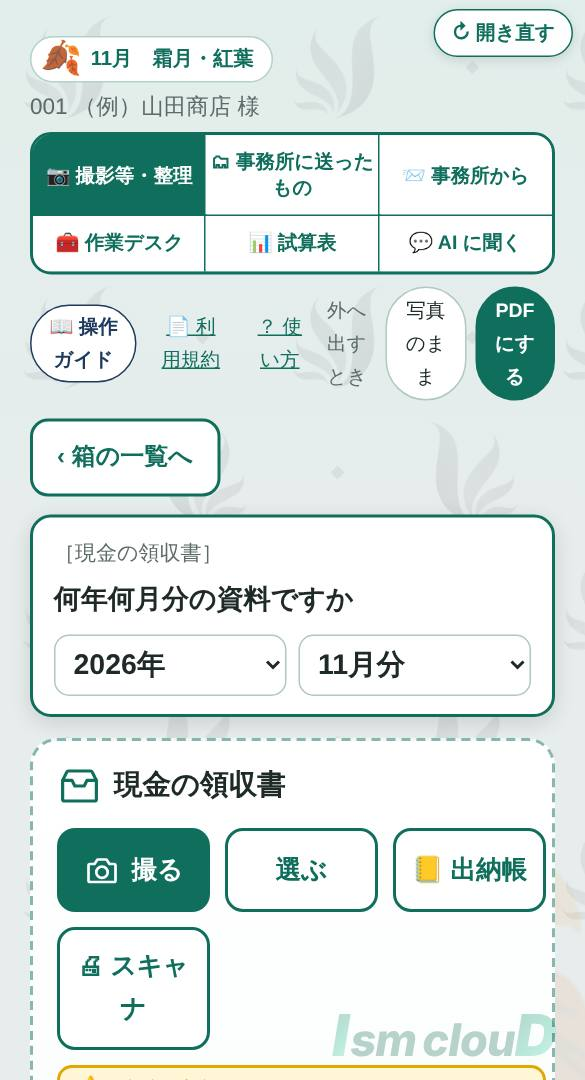
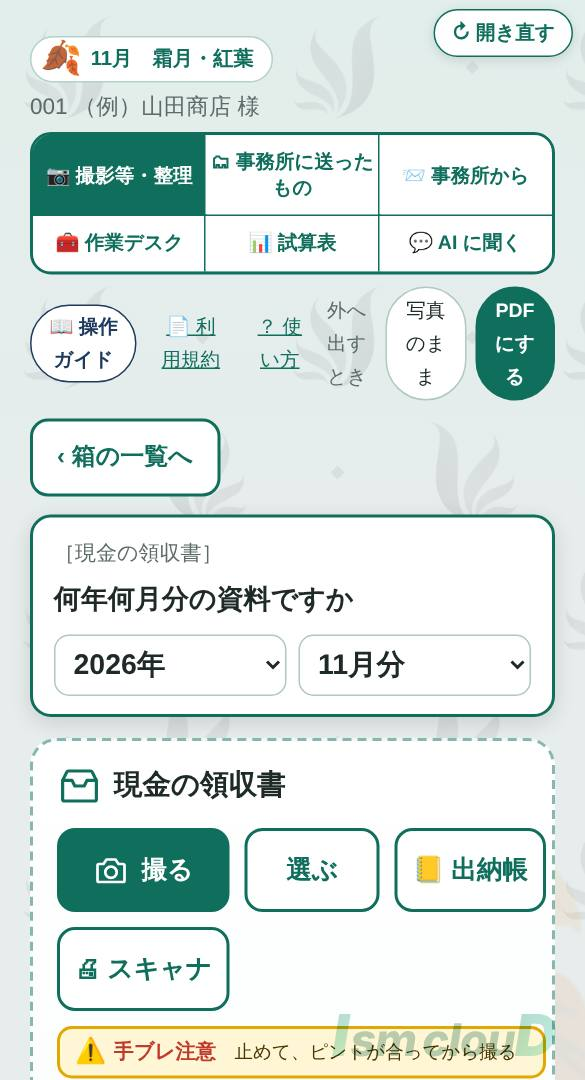
collect: 画面を更新（777a387）

Changed region(s): [[0.0923, 0.7639, 0.9538, 1.0], [0.6154, 0.7639, 0.8923, 0.8556], [0.4615, 0.7944, 0.5846, 0.825]]

diff --git a/collect/index.html b/collect/index.html
@@ -27,7 +27,7 @@
 <meta name="apple-mobile-web-app-title" content="資料提出">
 <meta name="mobile-web-app-capable" content="yes">
 <meta name="theme-color" content="#0F6E5C">
-<script>window.__PAGE_VER=1795509761;</script>
+<script>window.__PAGE_VER=1795511095;</script>
 <style>
[1 lines of base64/hex data omitted]
     --bg: #F3F6F5;
@@ -720,6 +720,7 @@
   .ti .join { position: absolute; left: 4px; bottom: 4px; font: inherit; font-size: 11.5px; font-weight: 800; border: 0; border-radius: 6px; padding: 4px 6px; background: rgba(255,255,255,.92); color: var(--accent); box-shadow: 0 1px 2px rgba(0,0,0,.3); cursor: pointer; }
   .ti .join[aria-pressed="true"] { background: var(--accent); color: #fff; }
   .ti.joined { outline: 3px solid var(--accent); outline-offset: 1px; }
+  .ti .tpg { position: absolute; left: 4px; bottom: 4px; background: #B3261E; color: #fff; font-size: 11px; font-weight: 800; border-radius: 4px; padding: 1px 6px; pointer-events: none; }   /* ★ K-0308：送る前の PDF は ページ数 */
   .ti .setn { position: absolute; left: 4px; top: 4px; font-size: 11px; font-weight: 800; padding: 1px 6px; border-radius: 4px; background: var(--accent); color: #fff; }
   /* ★★ 保管中（事務所に未送信）2026-10-15 */
   .send.hold { background: #fff; color: #8A5A00; border: 2px solid #D9A441; min-height: 52px; font-size: 17px; margin-top: 10px; }
@@ -2344,6 +2345,7 @@
           const d = mk('div', 'ti' + (sets[gi] ? ' joined' : '') + (TSEL[it.id] ? ' tsel' : '')); d.dataset.id = String(it.id);
           if (it.url) { const img = mk('img'); img.alt = it.file.name || '写真'; img.src = it.url; d.appendChild(img); }
           else d.appendChild(fileIcon(it.file.name) || mk('div', 'kind', (isPdf(it.file) ? 'PDF\n' : '') + (it.file.name || '')));
+          if (isPdf(it.file)) { d.appendChild(mk('span', 'tpg', 'PDF' + (it.pn ? ' ' + it.pn + 'ページ' : ''))); trayPeek(it); }
           const x = mk('button', 'del', '×'); x.type = 'button';
           x.setAttribute('aria-label', (it.file.name || '写真') + 'を消す');
           x.addEventListener('click', function () { removeItem(it.id); });
@@ -2357,6 +2359,20 @@
     });
   }
 
+  /* ★★ K-0308（2026-11-24 林）：送る前の確認の 札を 押すと 大きく見る。PDF は 何ページあっても ぜんぶ（‹ › ・PageUp／PageDown・スワイプ でページ）。
+       PDF の札には「PDF 5ページ」を出す（束ねた PDF も まるごと 送ることが ひと目で わかるように）。数は PDF の中身の字から 数える（PDF を開く道具は 押したときだけ 読み込む。端末の中だけ・送らない） */
+  function trayPeek(it) {
+    if (it.peek) return; it.peek = 1;
+    it.file.arrayBuffer().then(function (b) {
+      const n = pdfCount(b); if (!(n >= 1)) return; it.pn = n;
+      const d = document.querySelector('#trayBody .ti[data-id="' + it.id + '"]'), tg = d && d.querySelector(':scope > .tpg'); if (tg) tg.textContent = 'PDF ' + n + 'ページ';
+    }, function () {});
+  }
+  function trayZoom(it) {
+    const f = it.file, cap = (f.name || '写真') + '（送る前）';
+    if (isPdf(f)) { const zk = 'tray:' + it.id; ZLOC[zk] = function () { return f.arrayBuffer().then(bytesB64); }; zoomOpen('', zk, cap); return; }
+    if (it.url) zoomOpen(it.url, '', cap);
+  }
   /* ★ 送る前のものを PDF にする・印刷する（2026-10-13／10-23）。端末の中のものだけで作る（送らない） */
   function trayList(items) { return items.map(function (it) { return { k: 'tray' + it.id, it: it }; }); }
   function trayFiles(list) {
@@ -2385,6 +2401,7 @@
   $('trayWs').addEventListener('click', function () { if (!wsOpen('c:tray', wsTrayAd())) showDone('別の窓を開けませんでした。ブラウザの「ポップアップをブロック」を このページだけ許可してください。', true); });
   $('trayPickEnd').addEventListener('click', function () { TPICK = false; TSEL = {}; drawTray(); });
   $('trayBody').addEventListener('click', function (e) {
+    if (!TPICK && !e.target.closest('button') && !TDD.justEnded()) { const d0 = e.target.closest('.ti[data-id]'), it0 = d0 && tray.find(function (x) { return String(x.id) === d0.dataset.id; }); if (it0) trayZoom(it0); return; }
     if (!TPICK || e.target.closest('button')) return;
     const d = e.target.closest('.ti'); if (!d) return;
     e.preventDefault(); e.stopPropagation();
@@ -2544,7 +2561,8 @@
           if (r && r.scan && r.scan !== 'スキャナ保存') paperN++;
           /* 届いたものは その箱の その月分の 後ろ（撮った順）に「送信済み」で出す */
           const k = (r && r.k) || ('local_' + it.id);
-          if (r && r.k) locbFromSent(r.k, it.mime, it.bytes);   /* ★ 速さ：送った中身を覚えておく（PDF・外へ・書きこむ で 取りに行かない） */
+          if (r && r.k) locbFromSent(r.k, it.mime, it.bytes);
+          if (r && r.k && it.mime === 'application/pdf' && it.bytes && !(PDFN[r.k] >= 1)) pdfnPut(r.k, pdfCount(it.bytes));   /* ★ K-0308：送った PDF の ページ数（PDF を開く道具は 読み込まない） */   /* ★ 速さ：送った中身を覚えておく（PDF・外へ・書きこむ で 取りに行かない） */
           if (!HIST.some(function (h) { return h.k === k; })) {
             HIST.unshift({ k: k, at: (r && r.at) || '', box: (r && r.box) || it.box, period: (r && r.period) || per, name: it.name, pdf: it.mime === 'application/pdf',
                            status: 'received', note: '', redo: false, fresh: true, scan: (r && r.scan) || '', set: it.setv ? it.setv.set + '#' + it.setv.setN + '/' + it.setv.setOf : '', hold: !!it.hold, day: it.day || '' });
@@ -2909,7 +2927,27 @@
     st.addEventListener('click', function () { STACKOPEN[sid] = 1; drawAll(); });
     w.appendChild(st);
   }
-  function tileBase(src, name, pdf) {
+  /* ★★ K-0308（2026-11-24 林）：PDF の札に ページ数（「PDF 5ページ」）。表紙の絵だけだと 1枚しか 送れていないように 見えたため。
+       ページ数は 中身を 描いたとき（小さい絵・大きく見る・送り終えたとき）に 分かったものだけ。この端末に 覚える（数だけ。中身は 覚えない） */
+  const PDFN = (function () { try { return JSON.parse(lsGet('collect_pdfn') || '{}') || {}; } catch (e) { return {}; } })();
+  function pdfnTag(k) { return 'PDF' + (k && PDFN[k] > 1 ? ' ' + PDFN[k] + 'ページ' : ''); }
+  function pdfnPut(k, n) {
+    if (!k || /^local_/.test(k) || !(n >= 1) || PDFN[k] === n) return;
+    PDFN[k] = n; const ks = Object.keys(PDFN); if (ks.length > 800) ks.slice(0, ks.length - 800).forEach(function (x) { delete PDFN[x]; });
+    try { lsSet('collect_pdfn', JSON.stringify(PDFN)); } catch (e) {}
+    document.querySelectorAll('.ht[data-k="' + (window.CSS && CSS.escape ? CSS.escape(k) : k) + '"] > .hpdf-tag').forEach(function (t) { t.textContent = pdfnTag(k); });
+  }
+  /* PDF の ページ数を 中身の文字から 数える（いちばん大きい「/Type /Pages … /Count N」）。数えられなければ 0 */
+  function pdfCount(bytes) {
+    try {
+      const u = bytes instanceof Uint8Array ? bytes : new Uint8Array(bytes); let s = '';
+      for (let i = 0; i < u.length; i += 0x8000) s += String.fromCharCode.apply(null, u.subarray(i, i + 0x8000));
+      let n = 0; const re = /\/Type\s*\/Pages\b[^>]*?\/Count\s+(\d+)|\/Count\s+(\d+)[^>]*?\/Type\s*\/Pages\b/g; let m;
+      while ((m = re.exec(s))) n = Math.max(n, Number(m[1] || m[2]));
+      return n;
+    } catch (e) { return 0; }
+  }
+  function tileBase(src, name, pdf, k) {
     const d = mk('div', 'ht');
     const fi = fileIcon(name);
     if (fi) { d.appendChild(fi); d.classList.add('file'); return d; }
@@ -2917,7 +2955,7 @@
     if (src) { const img = mk('img'); img.alt = name || '写真'; img.src = src; img.loading = 'lazy'; d.appendChild(img); }
     else if (pdf && src === null) d.appendChild(mk('div', 'kind', 'PDF\n' + (name || '')));
     else { d.classList.add('wait'); if (pdf) d.appendChild(mk('div', 'kind', 'PDF\n' + (name || ''))); }
-    if (pdf) d.appendChild(mk('span', 'hpdf-tag', 'PDF'));
+    if (pdf) d.appendChild(mk('span', 'hpdf-tag', pdfnTag(k)));
     return d;
   }
   function outTile(it) {
@@ -2925,7 +2963,12 @@
     d.classList.add('sending');
     const t = it.st === 'send' ? (it.hold ? '保管しています…' : '送信中…') : it.st === 'prep' ? '準備中…' : it.st === 'ng' ? '送れません' : it.tries ? '電波待ち（自動で再送）' : '送信待ち';
     d.appendChild(mk('div', 'hst ' + (it.st === 'ng' ? 'back' : 'wait'), t));
-    d.addEventListener('click', function (e) { if (e.target.closest('.hx')) return; zoomOpen(it.url || it.thumb, '', it.name + '（' + t + '）'); });
+    d.addEventListener('click', function (e) {
+      if (e.target.closest('.hx')) return;
+      /* ★ K-0308：送っている途中・保管している途中の PDF も 中身を ぜんぶ（この端末にある PDF から） */
+      if (/pdf/.test(it.mime || '') && it.bytes) { const zk = 'out:' + it.id; ZLOC[zk] = function () { return bytesB64(it.bytes); }; zoomOpen(it.thumb || '', zk, it.name + '（' + t + '）'); return; }
+      zoomOpen(it.url || it.thumb, '', it.name + '（' + t + '）');
+    });
     if (it.st !== 'send') {
       const x = mk('button', 'hx', '×'); x.type = 'button'; x.setAttribute('aria-label', '送るのをやめる');
       x.addEventListener('click', function () { if (it.st === 'ng') { dropOut(it); return; } askYes('この1枚を送るのをやめますか？', '', 'やめる').then(function (y) { if (y) dropOut(it); }); });
@@ -2934,7 +2977,7 @@
     return d;
   }
   function histTile(h) {
-    const d = tileBase(TH[h.k], h.name, h.pdf);
+    const d = tileBase(TH[h.k], h.name, h.pdf, h.k);
     d.dataset.k = h.k;
     if (TH[h.k] === null && !h.pdf && !fileKind(h.name)) { d.classList.remove('wait'); d.appendChild(mk('div', 'kind', h.name)); }
     const s = stOf(h);
@@ -3156,8 +3199,8 @@
     if (img.draggable) hOutPrep(h);
     zRevDraw(); zChrome(h);
     v.hidden = false; document.body.classList.add('noscroll');
-    $('zoomLoad').hidden = !!full || !k || /^local_/.test(k) || (k in FULL);
-    if (!full && k && !(k in FULL)) fullWant(k, true);
+    $('zoomLoad').hidden = ZLOC[k] ? !!h : (!!full || !k || /^local_/.test(k) || (k in FULL));
+    if (!full && k && !(k in FULL) && !ZLOC[k]) fullWant(k, true);
     zPdfStart(h);
   }
   /* ================= ★ K-0093：PDF は くっきり（2026-11-10） =================
@@ -3209,25 +3252,32 @@
   }
   const ZPG = { k: '', i: 1, n: 0 };
   function zIsPdf(h) { return !!(h && h.k && !/^local_/.test(h.k) && (h.pdf || /\.pdf$/i.test(h.name || ''))); }
+  /* ★★ K-0308（2026-11-24 林）：送る前（送る前の確認）・送っている途中 の PDF も、何ページあっても 中身を ぜんぶ 見られるように。
+       前は まだ 事務所に 届いていない PDF は 中身を 取りに行けず、大きく見ても 1ページ目（表紙）しか 出なかった（送るのは もともと PDF まるごと）。
+       ZLOC … 大きく見る 鍵 → この端末にある PDF の 中身（base64）を 返す関数。閉じたら 外す */
+  const ZLOC = {};
+  function zMine() { return ZPG.n > 1 && (ZH ? ZH.k === ZPG.k : !!ZK && ZK === ZPG.k); }
   function zPdfStart(h) {
     ZPG.k = ''; ZPG.i = 1; ZPG.n = 0; ZPG.sharp = false;
-    if (!zIsPdf(h)) return;
-    const k = h.k; ZPG.k = k;
+    const loc = !h && ZK && ZLOC[ZK] ? ZLOC[ZK] : null;
+    if (!loc && !zIsPdf(h)) return;
+    const k = loc ? ZK : h.k; ZPG.k = k;
     const go = function (d) { if (ZPG.k !== k || $('zoomv').hidden) return; ZPG.n = d.n; zPdfShow(k, 1); };
     if (ZDOC[k]) { if (ZDOC[k].doc) go(ZDOC[k]); return; }
     ZDOC[k] = { doc: null, n: 0, pg: {} }; ZDOCK.push(k);
     while (ZDOCK.length > 3) { const o = ZDOCK.shift(); try { if (ZDOC[o] && ZDOC[o].doc && ZDOC[o].doc.destroy) ZDOC[o].doc.destroy(); } catch (e) {} delete ZDOC[o]; }
-    call('clientFiles', [TOKEN, [k]], 120000).then(function (r) {
-      const v = r && r[k]; if (!v || v.t !== 'pdf' || !v.b64) throw new Error('no pdf');
-      return pdfjs().then(function (lib) { return lib.getDocument(Object.assign({ data: b64bytes(v.b64) }, PDF_OPT)).promise; });
-    }).then(function (doc) { const d = ZDOC[k]; if (!d) { try { doc.destroy(); } catch (e) {} return; } d.doc = doc; d.n = doc.numPages; go(d); },
-      function () { delete ZDOC[k]; const i = ZDOCK.indexOf(k); if (i >= 0) ZDOCK.splice(i, 1); });   /* 描けないときは 今までの絵のまま */
+    (loc ? Promise.resolve().then(loc) : call('clientFiles', [TOKEN, [k]], 120000).then(function (r) { const v = r && r[k]; return v && v.t === 'pdf' ? v.b64 : ''; })).then(function (b64) {
+      if (!b64) throw new Error('no pdf');
+      return pdfjs().then(function (lib) { return lib.getDocument(Object.assign({ data: b64bytes(b64) }, PDF_OPT)).promise; });
+    }).then(function (doc) { const d = ZDOC[k]; if (!d) { try { doc.destroy(); } catch (e) {} return; } d.doc = doc; d.n = doc.numPages; if (!loc) pdfnPut(k, d.n); go(d); if (loc && d.n < 2) $('zoomLoad').hidden = true; },
+      function () { delete ZDOC[k]; const i = ZDOCK.indexOf(k); if (i >= 0) ZDOCK.splice(i, 1); if (loc && ZPG.k === k) $('zoomLoad').hidden = true; });   /* 描けないときは 今までの絵のまま */
   }
   function zPdfPaint() {
-    const multi = ZPG.n > 1 && ZH && ZH.k === ZPG.k;
+    const multi = zMine();
     if (multi) { $('zoomPg').hidden = false; $('zoomPg').textContent = 'PDF ' + ZPG.i + ' / ' + ZPG.n + 'ページ'; }
     { const sp = $('zoomPdfSplit'); const can = multi && ZH && ZH.status !== 'done' && !MODE; sp.hidden = !can; if (can && sp.dataset.k !== ZH.k) { sp.dataset.k = ZH.k; sp.dataset.ok = ''; sp.disabled = false; sp.textContent = '✂ 1ページずつに分ける'; } }
     if (ZH) { $('zoomPrev').hidden = !(multi && ZPG.i > 1) && !zPageTo(ZH, -1); $('zoomNext').hidden = !(multi && ZPG.i < ZPG.n) && !zPageTo(ZH, 1); }
+    else if (ZLOC[ZPG.k]) { $('zoomPrev').hidden = !(multi && ZPG.i > 1); $('zoomNext').hidden = !(multi && ZPG.i < ZPG.n); }
   }
   function zPdfShow(k, i) {
     const d = ZDOC[k]; if (!d || !d.doc) return;
@@ -3244,7 +3294,7 @@
   }
   /* PDF の中のページ送り。最後（最初）のページで もう一度押すと 次（前）の書類へ */
   function zPdfStep(dir) {
-    if (!(ZPG.n > 1 && ZH && ZH.k === ZPG.k)) return false;
+    if (!zMine()) return false;
     const n = ZPG.i + dir; if (n < 1 || n > ZPG.n) return false;
     ZP.reset(); zPdfShow(ZPG.k, n); return true;
   }
@@ -3377,6 +3427,12 @@
   });
   $('zoomFoot').addEventListener('click', function (e) { e.stopPropagation(); });   /* ★ 帯の すきまを押しても 閉じない */
   $('zoomChk').addEventListener('click', function () { if (ZH) cchkSet(ZH, !ZH.cchk); });
+  /* ★ K-0308：送る前・送っている途中の PDF は ← → ・PageUp／PageDown で ページ（箱の中の 前後は 無い） */
+  document.addEventListener('keydown', function (e) {
+    if ($('zoomv').hidden || ZH || !ZLOC[ZPG.k] || e.ctrlKey || e.metaKey || e.altKey) return;
+    const d = e.key === 'PageDown' || e.key === 'ArrowRight' || e.key === 'ArrowDown' ? 1 : e.key === 'PageUp' || e.key === 'ArrowLeft' || e.key === 'ArrowUp' ? -1 : 0;
+    if (d) { e.preventDefault(); zPdfStep(d); }
+  });
   let Z_ZERO = 0;
   document.addEventListener('keydown', function (e) {
     if ($('zoomv').hidden || !ZH || $('zoomRev').hidden || e.ctrlKey || e.metaKey || e.altKey) return;
@@ -3945,7 +4001,7 @@
       showDone('書きこみました（この PDF が 書きこんだものに 変わりました）。'); pulseSig = '';
     } catch (e) { WV.busy = false; $('wvOk').disabled = false; WV.noBg = false; WV.marks = WVP.pm[cur] || []; try { wvPdfPage(cur); } catch (x) {} wvMsg('保存できませんでした。' + (e && e.message ? e.message : e), true); }
   }
-  function zoomClose() { $('zoomv').hidden = true; ZK = ''; $('zoomImg').removeAttribute('src'); if ($('backv').hidden && $('movev').hidden && $('signv').hidden) document.body.classList.remove('noscroll'); }
+  function zoomClose() { $('zoomv').hidden = true; ZK = ''; Object.keys(ZLOC).forEach(function (x) { delete ZLOC[x]; }); $('zoomImg').removeAttribute('src'); if ($('backv').hidden && $('movev').hidden && $('signv').hidden) document.body.classList.remove('noscroll'); }
   $('zoomv').addEventListener('click', zoomClose);
 
   /* ---- つかんで移す（箱の整理）----
@@ -5643,7 +5699,7 @@
   const GUIDE = {
     order: ['send', 'box', 'cam', 'hist', 'recv', 'desk', 'tb', 'ai', 'link', 'book'],
     send: { t: '📷 撮影等・整理', pic: 'g_send', lead: '書類を 箱ごとに 撮る・入れる・整理する 画面です。入れたものは まず その箱に保管され、事務所には［事務所に送る］を押したときに 届きます。',
-      steps: ['上の「年」「月分」で 何年何月分の書類かを選ぶ', '入れたい箱の名前を押して 開く', '［撮る］で撮影、または［選ぶ］で 写真・PDF を選ぶ（パソコンは 箱へ ドラッグ＆ドロップでも入ります。フォルダごと落とすと 中のファイルが全部入ります）', '箱の中で 送るものを選んで［事務所に送る］'],
+      steps: ['上の「年」「月分」で 何年何月分の書類かを選ぶ', '入れたい箱の名前を押して 開く', '［撮る］で撮影、または［選ぶ］で 写真・PDF を選ぶ（パソコンは 箱へ ドラッグ＆ドロップでも入ります。フォルダごと落とすと 中のファイルが全部入ります）', '何枚も 束ねた PDF は、札に「PDF 5ページ」と出ます。押すと 大きく見えて、‹ › で ぜんぶの ページを 見られます（PDF は まるごと 送ります）', '箱の中で 送るものを選んで［事務所に送る］'],
       tips: ['「🧾 確定申告の 書類」が 出ているとき（事務所が 始めたとき）… 押すと 質問が 1つずつ 出ます。「はい」「いいえ」「わからない」で 答え、「はい」の 書類だけ 撮るか 選んで 出します。迷ったら「わからない」で 大丈夫です（事務所から ご連絡します）。手元に 無い 書類は「あとで 出す」。途中で やめても 続きから 始まります。マイナンバーの 載っている ところは 隠して 撮ってください', 'パソコンでは 上の 切り替えを 右クリック →［新しいタブで開く］［別ウィンドウで開く］で 画面を 並べて 使えます', '送る前でも［⬇ PDFで保存］［🖨 印刷］ができます（送ったことには なりません）。📎 まとめた書類は 1つのPDF、ほかは 1枚ずつのPDF（2つ以上なら ZIP 1つ）', '［送らずに保管する］で残したものは この会社の ほかの端末（パソコンなど）にも すぐ出ます。事務所には見えません。あとで選んで［事務所に送る］を押せば届きます', '1ファイルの大きさには 上限があります（画面のいちばん下）', '送り間違えたときは 箱の中で消すか、担当スタッフにお知らせください', 'マイナンバーが写っているものは「年末調整書類（マイナンバー記載あり）」の箱へ。ほかの箱なら 上のチェックを入れてから撮ります', '「📊 経営助言」の帯は 事務所からの 助言と、事務所が算定した もしものときに 要るお金（標準保障額）と 銀行から見た 格付けです。押すと 理由と 推移が出ます。どうしたら よいかは［どうしたら よいか 石井事務所に 相談する］で 聞けます', '事務所から「議事録の ご確認のお願い」の黄色い帯が出たら、押して 内容を読み、お名前を入れて［内容を確認しました］を 押します', '事務所から「◯月分の ◯◯ を お送りください」の黄色い帯が出たら、押すと その月分・その箱が開きます', '撮ったら そのまま閉じても大丈夫です（届くまで 端末が続けます）'] },
     box: { t: '📦 箱の中', pic: 'g_box', lead: '箱を開くと、その箱に入っている書類が 月分ごとに並びます。',
       steps: ['写真を押すと［🔍 大きく見る］。指（マウス）で 拡大・移動できます', '何枚かを 1つの書類にするときは 選んで［📎 まとめる］', 'まちがえた箱・月分は［↪ 別の箱へ移す］［別の月分へ移す］', 'スキャナで 何枚も 1つの PDF に なったときは、大きく見るで［✂ 1ページずつに分ける］（1ページ ＝ 1つの 資料に。送る前でも 送ったあとでも）', 'ScanSnap などの スキャナは 箱の［🖨 スキャナ］で 保存先の フォルダを 1回 選ぶと、スキャンした ファイルが その箱に ひとりでに 入ります（まだ 送りません。パソコンの Chrome・Edge）', '［未送信 N件を 事務所に送る］は「保管しています…」の 途中のものも 数えます。押せば 保管が 済みしだい 届きます（待たなくて よい）', '文字・下線・枠を書きこむときは［✏ 文字を書きこむ］', '［⬇ PDFで保存］［🖨 印刷］で 手もとに残す（大きく見ているときは［⬇ 保存］で その1つを パソコン・スマホに保存。別ウィンドウの 大きく見る にも あります）', '送るものを選んで［事務所に送る］'],
@@ -7066,7 +7122,7 @@
     if (!list.length) { ul.appendChild(mk('li', 'empty', '撮り直しのお願いは もうありません。ありがとうございました。')); return; }
     list.forEach(function (h) {
       const li = mk('li', 'bl');
-      const t = tileBase(TH[h.k], h.name, h.pdf); t.dataset.k = h.k; li.appendChild(t);
+      const t = tileBase(TH[h.k], h.name, h.pdf, h.k); t.dataset.k = h.k; li.appendChild(t);
       const r = mk('div', 'bl-r');
       r.appendChild(mk('div', 'bl-w', ymLabel(h.period) + '［' + h.box + '］'));
       r.appendChild(mk('div', 'bl-n', '事務所から：' + (h.note || '撮り直してください')));
@@ -7102,7 +7158,7 @@
         c.appendChild(mk('div', 'bkx-l', label));
         const g = mk('div', 'bkx-g');
         list.forEach(function (h) {
-          const t = tileBase(TH[h.k], h.name, h.pdf); t.dataset.k = h.k;
+          const t = tileBase(TH[h.k], h.name, h.pdf, h.k); t.dataset.k = h.k;
           t.addEventListener('click', function () { zoomOpen(TH[h.k], h.k, ymLabel(h.period) + '［' + h.box + '］　' + label, h); });
           g.appendChild(t);
         });

diff --git a/collect/office.html b/collect/office.html
@@ -18,7 +18,7 @@
 <meta name="apple-mobile-web-app-title" content="資料回収 事務所">
 <meta name="mobile-web-app-capable" content="yes">
 <meta name="theme-color" content="#0F6E5C">
-<script>window.__PAGE_VER=1795509761;</script>
+<script>window.__PAGE_VER=1795511095;</script>
 <!-- ==================================================================
      事務所の画面（パソコン・スマホ）。1枚で2つの開き方をする：
        アプリ … https://ishii-office.github.io/apps/collect/office.html
